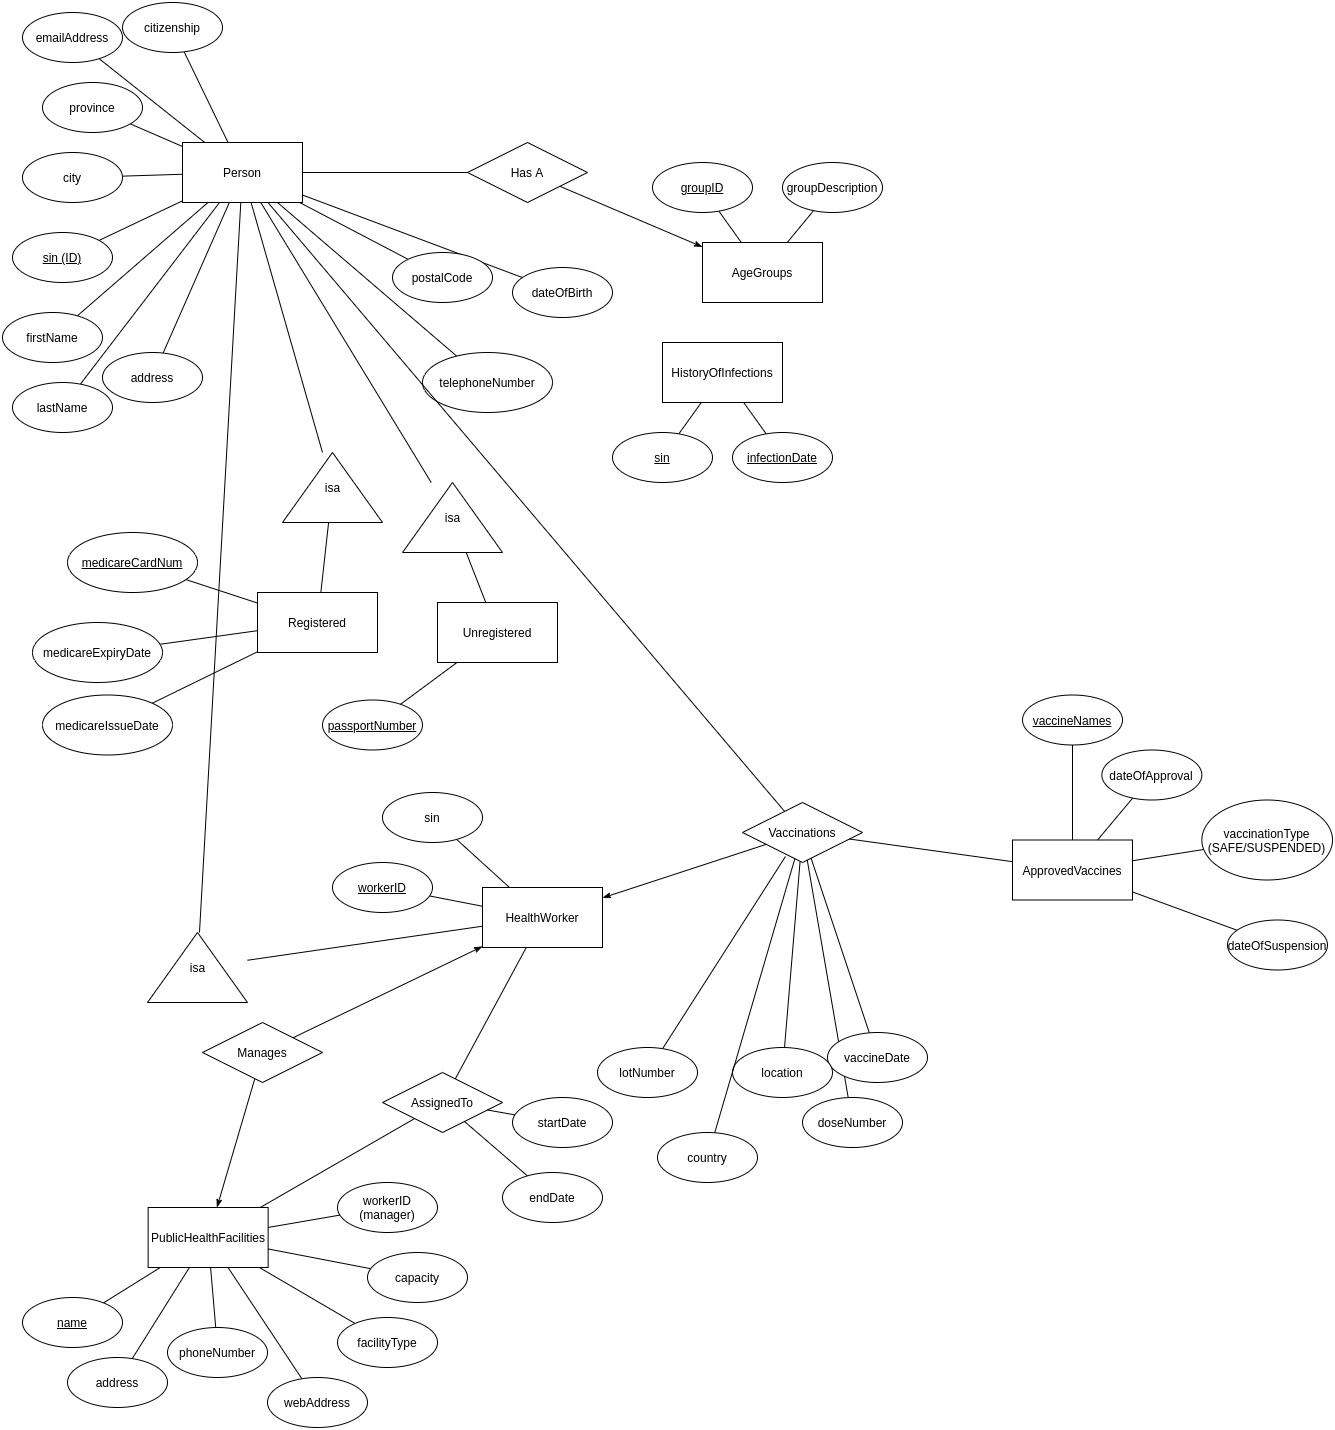
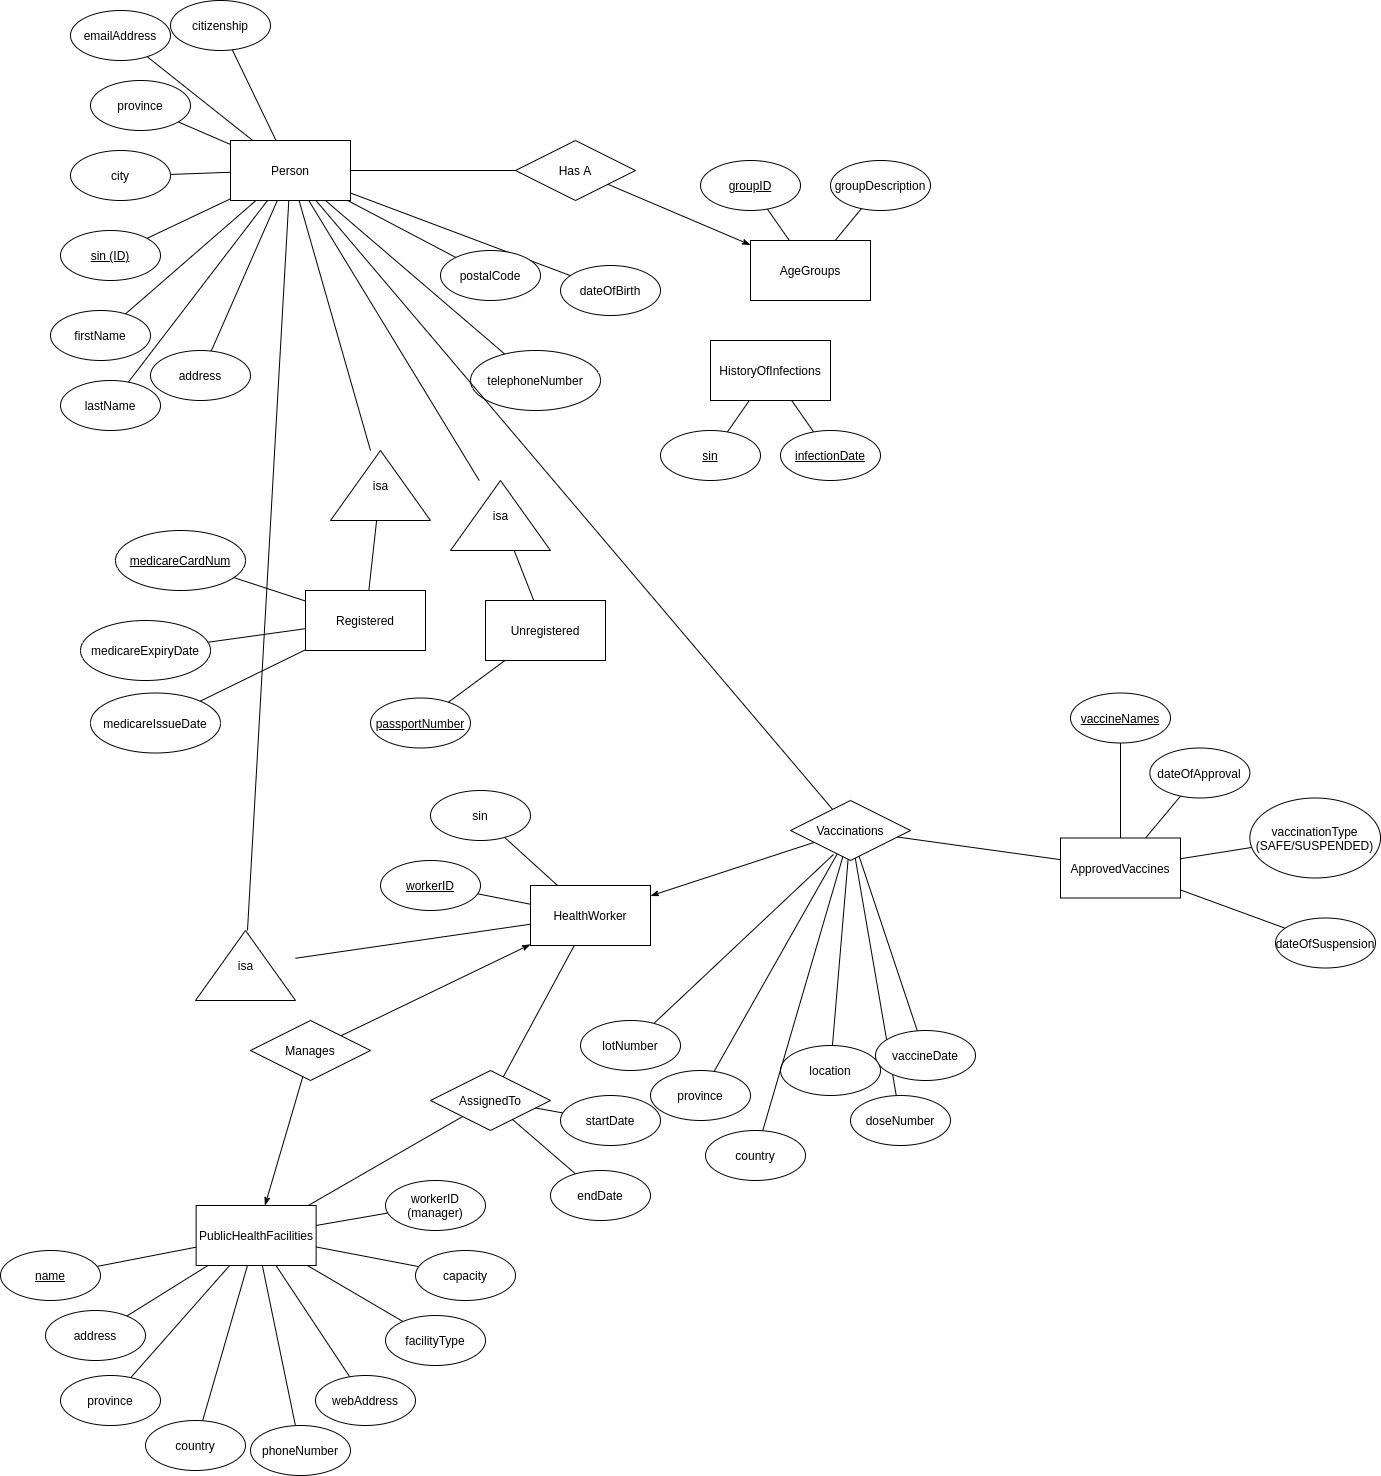
Added Provinces

diff --git a/schema.md b/schema.md
@@ -5,7 +5,7 @@
 - AgeGroup(<ins>groupID</ins>, groupDescription)
 - InfectionHistory(<ins>personID</ins>, <ins>infectionDate</ins>)
 - HealthWorker(<ins>workerID</ins>, id, employeeType)
-- PublicHealthFacilities(<ins>name</ins>, address, phoneNumber, webAddress, facilityType, capacity, managerID)
+- PublicHealthFacilities(<ins>name</ins>, address, province, country, phoneNumber, webAddress, facilityType, capacity, managerID)
 - Assignments(<ins>workerID</ins>, <ins>facilityName</ins>, startDate, endDate)
 - ApprovedVaccinations(<ins>vaccinationName</ins>, dateOfApproval, vaccinationType, dateOfSuspension)
-- Vaccinations(<ins>id</ins>, healthWorkerID, vaccinationName, <ins>vaccinationDate</ins>, lotNumber, location, country, doseNumber)
+- Vaccinations(<ins>id</ins>, healthWorkerID, vaccinationName, <ins>vaccinationDate</ins>, lotNumber, location, province, country, doseNumber)
